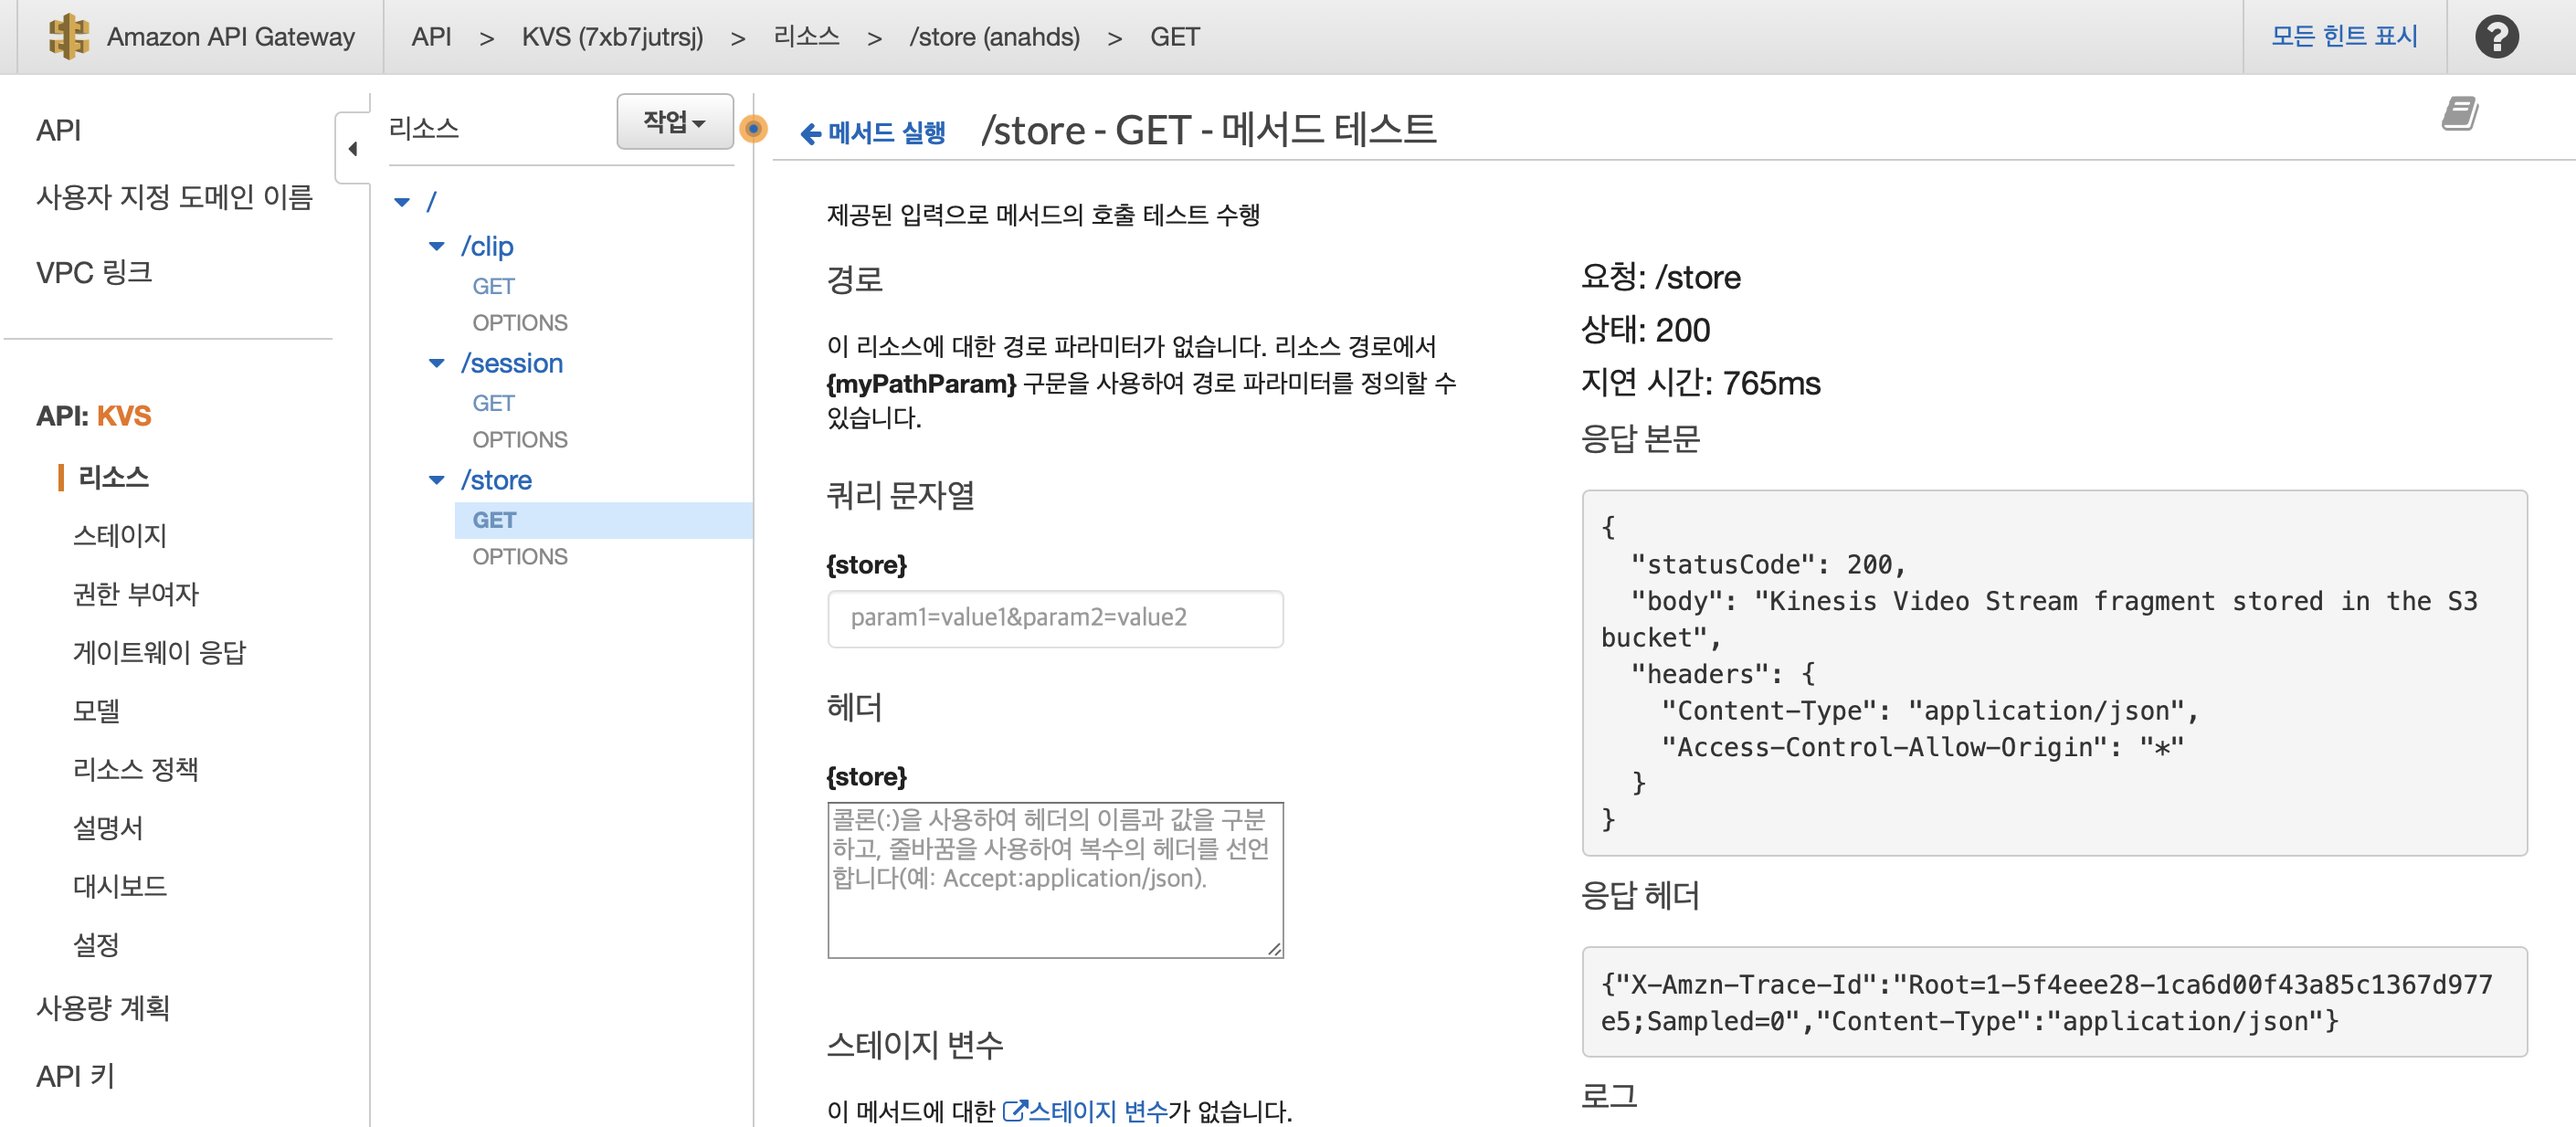
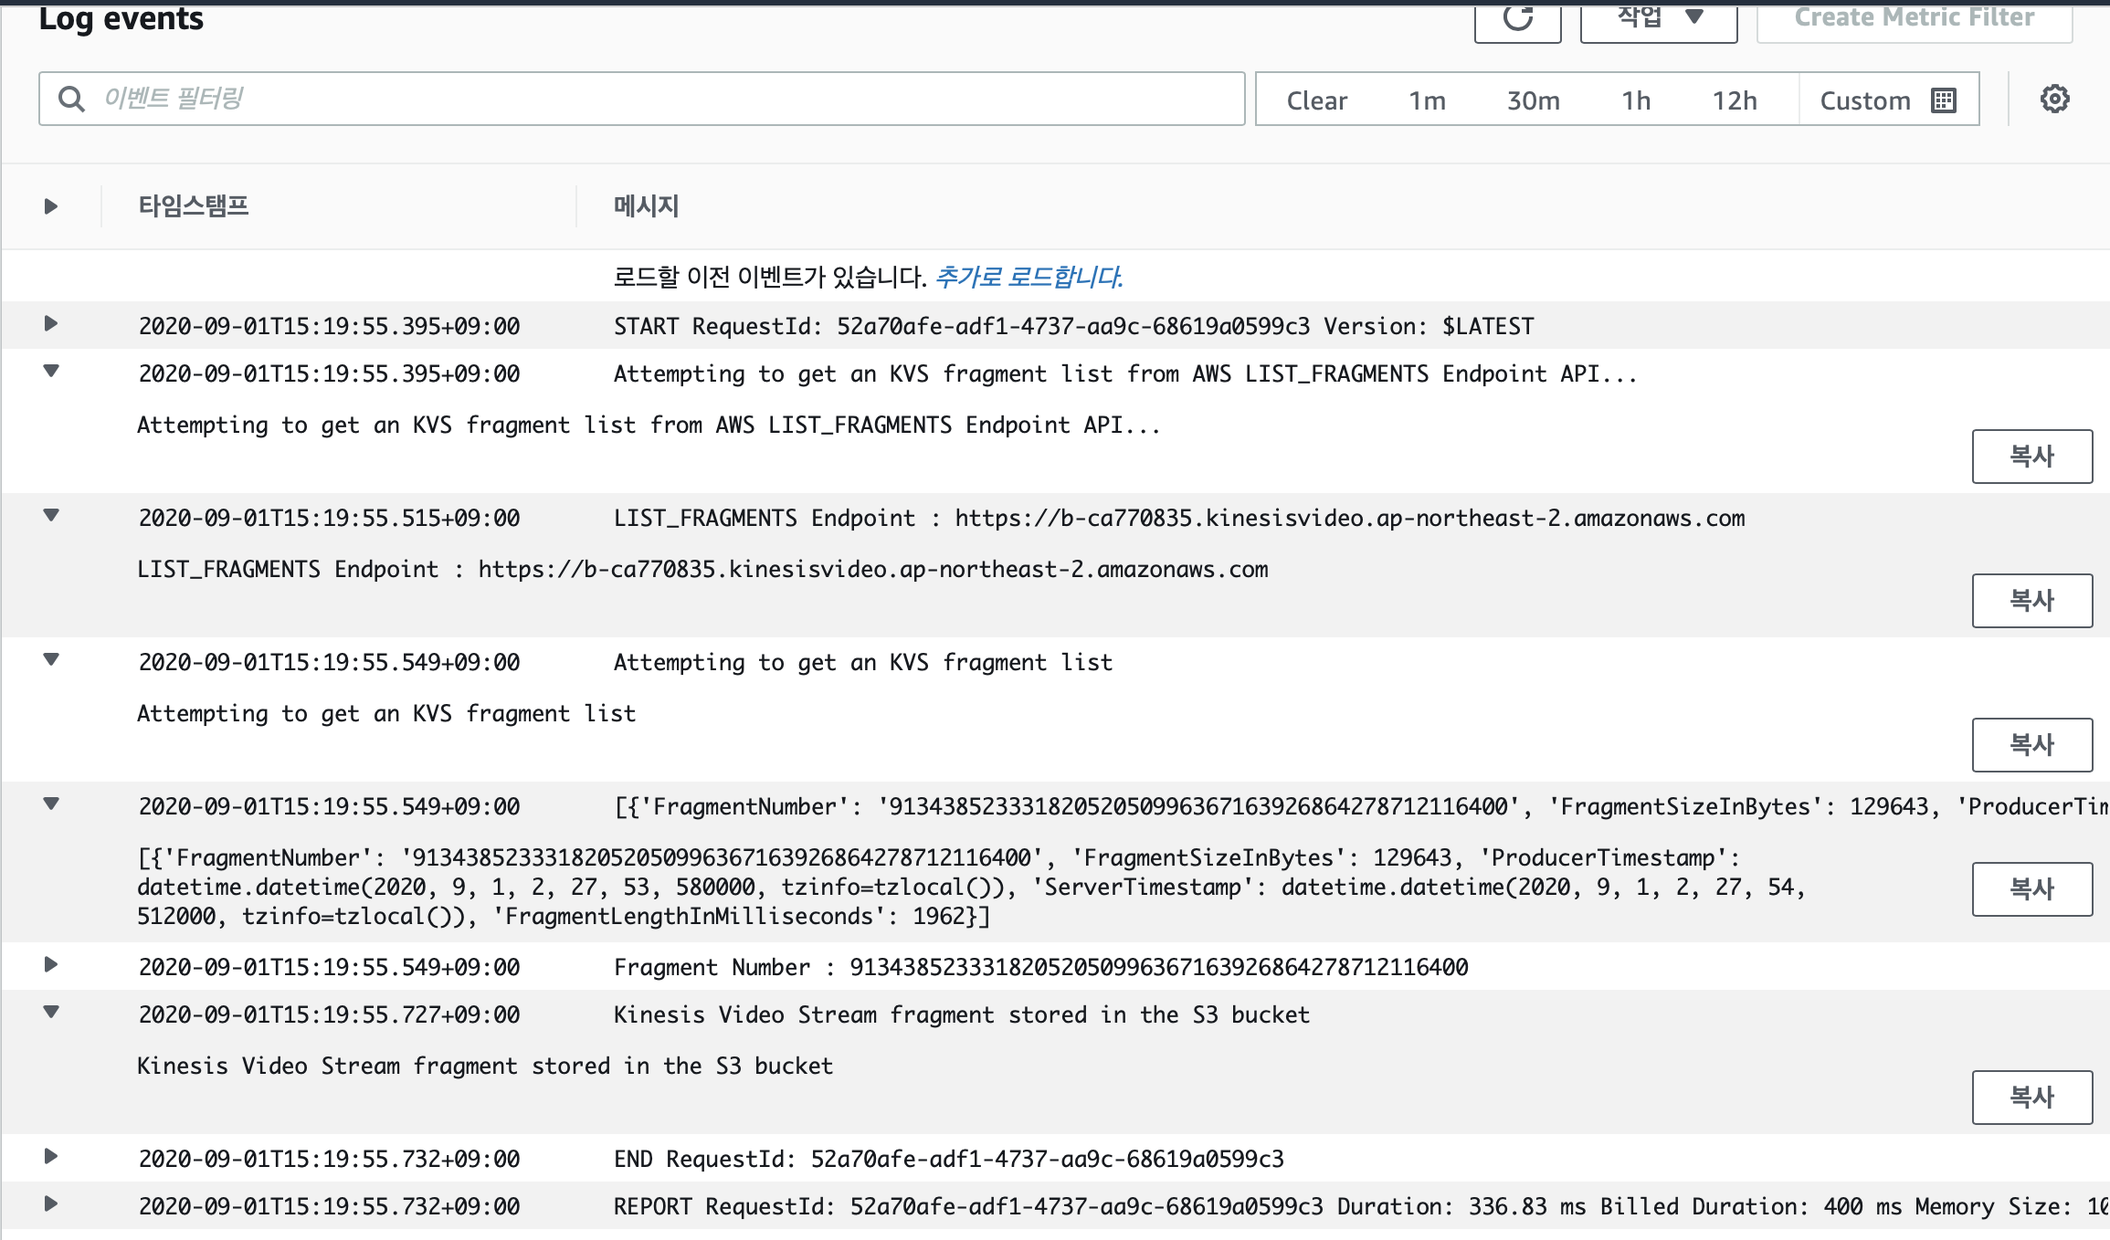
KinesisVideoStreams'

diff --git a/README.md b/README.md
@@ -1,8 +1,8 @@
-# AWS KinesisVideoStream
+# AWS KinesisVideoStreams
 
 * * *
 
-### # Kinesis Video Stream - Serverless 테스트 구성 방안 ([1]~[3]) 
+### # KinesisVideoStreams - Serverless 테스트 구성 방안 ([1]~[3]) 
 
 - [1] API-Gateway (/session) + Lambda1(실시간 KVS로 전송 중인 영상을 HLS URL로 재생 관련)
 - [2] API-Gateway (/store) + Lambda2 (특정 시점 분석을 위해 잘 개 쪼개진 Fragment 영상을 S3에 저장 관련)
@@ -10,25 +10,25 @@
 
 * * *
 
-### # Kinesis Video Stream - 테스트 구성 고려 사항 
+### # KinesisVideoStreams - 테스트 구성 고려 사항 
 
-- [1] Kinesis Video Stream 1개 채널 기준으로 테스트 구성 (다수의 채널 처리 부분은 원하는 방향으로 개발 로직 구현 필요)
-- [2] Kinesis Video Stream API TimestampRange 인자 값의 경우 테스트를 위한 특정 시점 기준으로 입력
+- [1] KinesisVideoStreams 1개 채널 기준으로 테스트 구성 (다수의 채널 처리 부분은 원하는 방향으로 개발 로직 구현 필요)
+- [2] KinesisVideoStreams API TimestampRange 인자 값의 경우 테스트를 위한 특정 시점 기준으로 입력
 - [3] Lambda에서 KVS 채널을 호출할 경우 동일한 리전에서 호출되어야 하는 제약사항 있음 (테스트 간 확인)
 
 <br>
 
-Kinesis Video Stream - API Syntax 참고 링크 
+KinesisVideoStreams - API Syntax 참고 링크 
 https://docs.aws.amazon.com/kinesisvideostreams/latest/dg/API_reader_ListFragments.html
 
-Kinesis Video Stream - Serverless 구성 테스트 진행을 위한 API-Gateway 생성 화면 
+KinesisVideoStreams - Serverless 구성 테스트 진행을 위한 API-Gateway 생성 화면 
 ![image](./images/Screen-1.png)
 
 <br>
 
 * * *
 
-### # Kinesis Video Stream - Serverless 테스트 구성 정리 ([1]~[3]) 
+### # KinesisVideoStreams - Serverless 테스트 구성 정리 ([1]~[3]) 
 
 #### [1] API-Gateway (/session) + Lambda1(실시간 KVS로 전송 중인 영상을 HLS URL로 재생 관련)
 
@@ -36,7 +36,7 @@ Kinesis Video Stream - Serverless 구성 테스트 진행을 위한 API-Gateway 
 
 ##### 1-2. AWS Lambda Python 예제로 구성 (GET_HLS_STREAMING_SESSION_URL)
 
-- get_hls_streaming_session_url()
+- get_hls_streaming_session_url() : 
 https://boto3.amazonaws.com/v1/documentation/api/latest/reference/services/kinesis-video-archived-media.html#KinesisVideoArchivedMedia.Client.get_hls_streaming_session_url
 
 ```python
@@ -45,7 +45,7 @@ import json
 import boto3
 
 def lambda_handler(event, context):
-    # Kinesis Video Stream ARN
+    # KinesisVideoStreams ARN
     streamarn = "arn:aws:kinesisvideo:ap-northeast-2:00000000000:stream/KVSTEST/1597742988841"
 
     kvs = boto3.client('kinesisvideo',region_name='ap-northeast-2')
@@ -70,16 +70,16 @@ def lambda_handler(event, context):
     return res
 ```
 
-##### 1-3. S3 정적 웹사이트 호스팅 (index.html)
+##### 1-3. S3 정적 웹사이트 호스팅 구성 (index.html)
 ![image](./images/Screen-2.png)
 
 
-##### 1-4. S3 정적 웹사이트 호스팅 (index.html - Video-js 플레이어 API-Gateway 호출)
+##### 1-4. S3 정적 웹사이트 호스팅 구성 (index.html - Video-js 플레이어 API-Gateway 호출)
 ```python
 <html>
 
 <head>
-    <title>Kinesis Video Stream Test</title>
+    <title>KinesisVideoStreams Test</title>
     <link href="https://vjs.zencdn.net/7.4.1/video-js.css" rel="stylesheet">
 </head>
 
@@ -110,7 +110,7 @@ def lambda_handler(event, context):
 ![image](./images/Screen-3.png)
 
 
-##### 1-6. S3 정적 웹사이트 호스팅 KVS - GET_HLS_STREAMING_SESSION_URL 재생
+##### 1-6. S3 정적 웹사이트 호스팅 - KVS GET_HLS_STREAMING_SESSION_URL 재생 확인
 ![image](./images/Screen-4.png)
 
 * * *
@@ -187,13 +187,13 @@ def lambda_handler(event, context):
 
     s3 = boto3.client('s3')
     s3.put_object(Bucket=bucket, Key=mkv_key, Body=Fragment_stream['Payload'].read())
-    print("Kinesis Video Stream fragment stored in the S3 bucket")
+    print("KinesisVideoStreams fragment stored in the S3 bucket")
 
 
     headers = {'Content-Type' : 'application/json', 'Access-Control-Allow-Origin': '*'}
     res = {
         "statusCode" : 200,
-        "body" : "Kinesis Video Stream fragment stored in the S3 bucket",
+        "body" : "KinesisVideoStreams fragment stored in the S3 bucket",
         "headers" : headers
     }
     return res
@@ -271,13 +271,13 @@ def lambda_handler(event, context):
 
     s3 = boto3.client('s3')
     s3.put_object(Bucket=bucket, Key=mp4_key, Body=Stream_GetClip['Payload'].read())
-    print("Kinesis Video Stream VOD Clip stored in the S3 bucket")
+    print("KinesisVideoStreams VOD Clip stored in the S3 bucket")
 
 
     headers = {'Content-Type' : 'application/json', 'Access-Control-Allow-Origin': '*'}
     res = {
         "statusCode" : 200,
-        "body" : "Kinesis Video Stream VOD Clip stored stored in the S3 bucket",
+        "body" : "KinesisVideoStreams VOD Clip stored stored in the S3 bucket",
         "headers" : headers
     }
     return res
